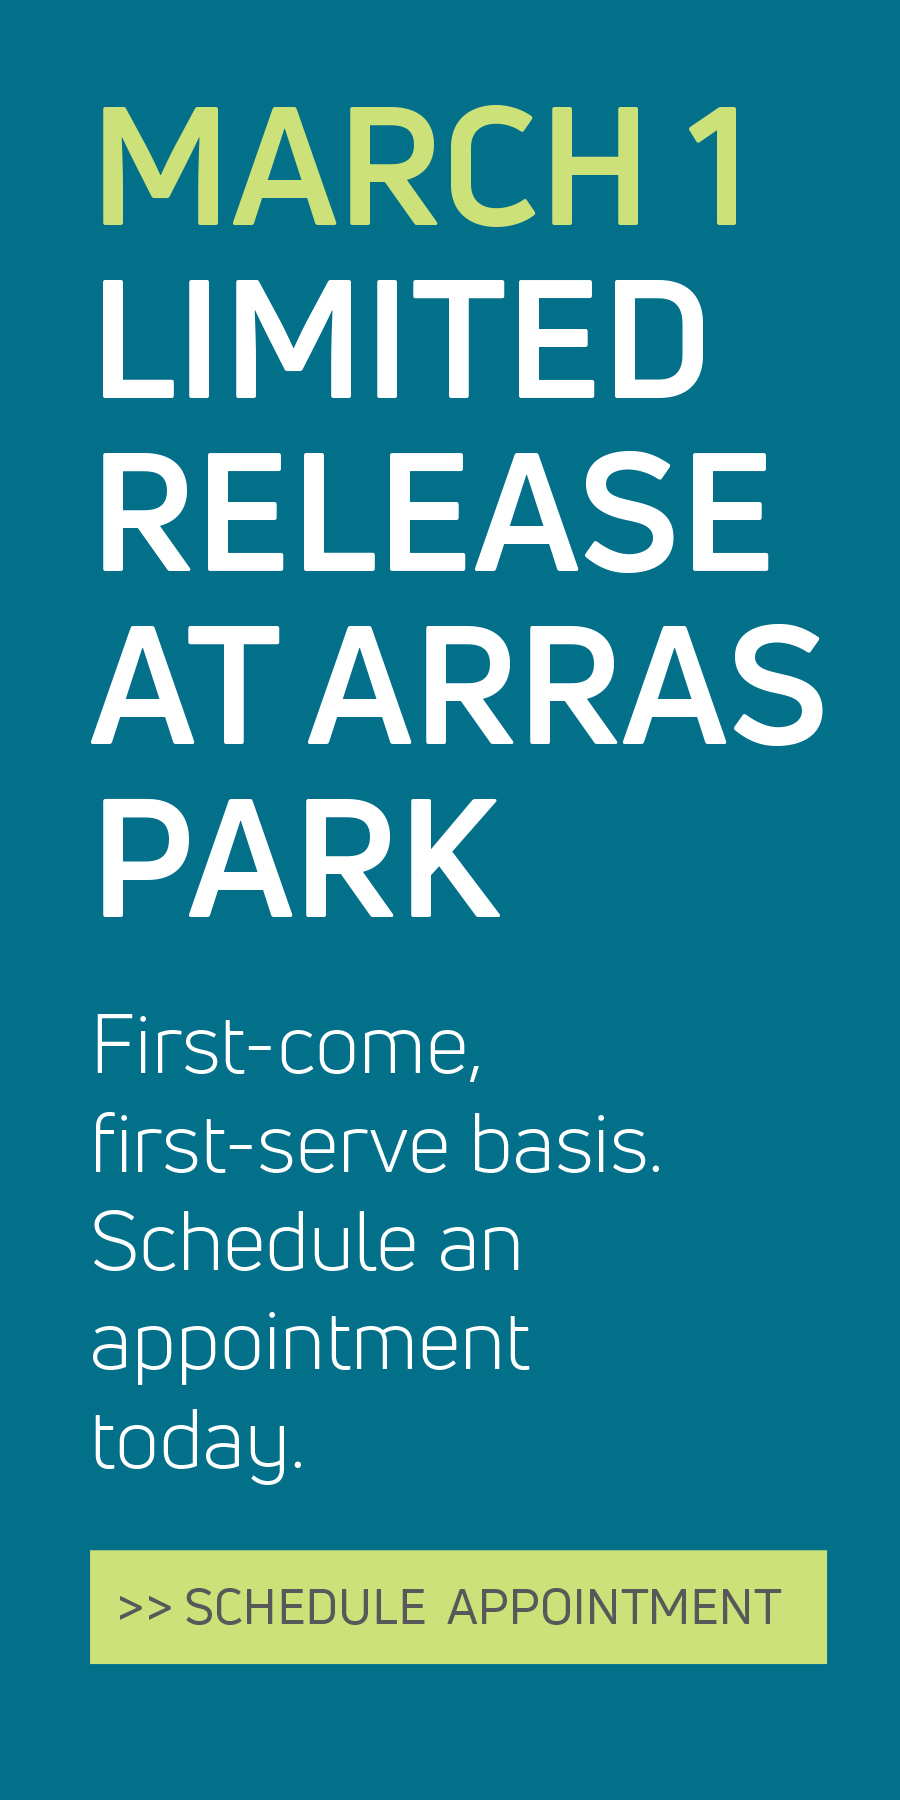
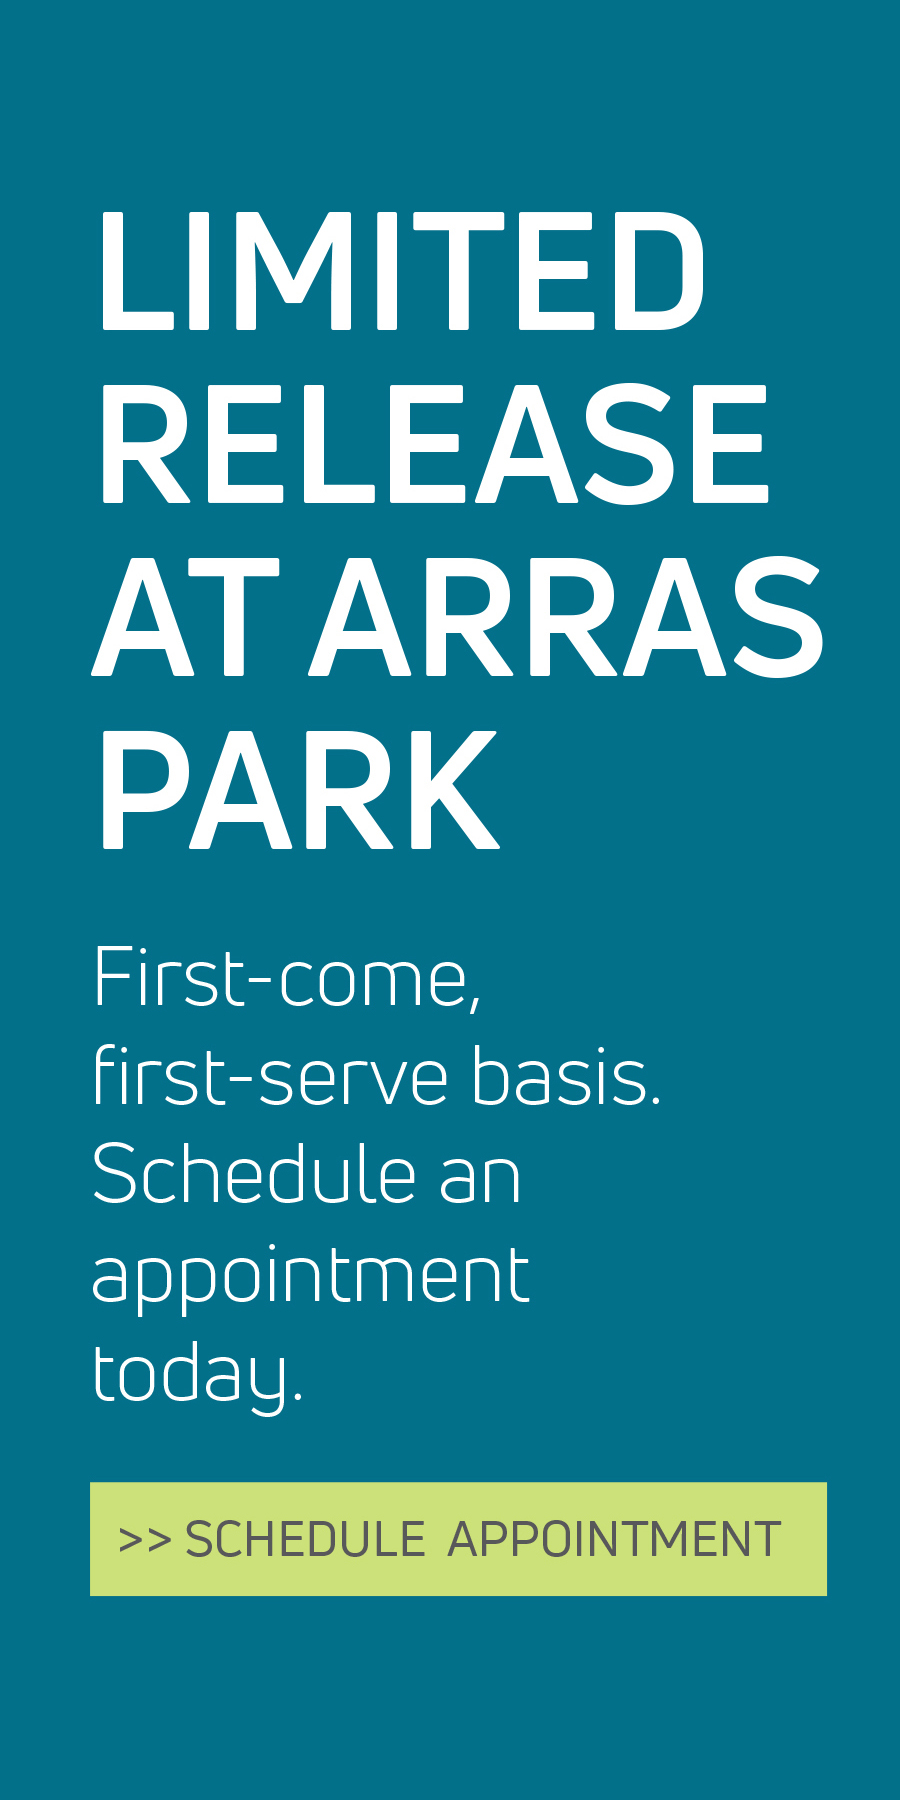
Updating button type on appointment callout and placing buttons back on page.

Changed region(s): [[0.0933, 0.0311, 0.9333, 0.9333], [0.7467, 0.0622, 0.84, 0.1244]]

diff --git a/wp-content/themes/mcstain-2019.1/cultivation/cultivation-intro.php b/wp-content/themes/mcstain-2019.1/cultivation/cultivation-intro.php
@@ -6,28 +6,28 @@
         <div class="community-details">
           <?php the_content() ?>
 
-          <?php /* if(is_page('arras-park')): ?>
+          <?php if(is_page('arras-park')): ?>
             <button class="appt-btn lightbox-trigger base-contact">
               <img src="<?php bloginfo('stylesheet_directory') ?>/assets/images/schedule_mobile.jpg" alt="Schedule Appointment Button" class="img-fluid aligncenter" />
             </button>
-          <?php else: */ ?>
+          <?php else: ?>
           <a href="/bewell-house-by-mcstain/" title="BeWell House, exclusively by McStain Neighborhoods" class="sidebar-btn">
             <img src="<?php bloginfo('template_directory') ?>/assets/images/bewell-btn-mobile.jpg" alt="BeWell House, exclusively by McStain Neighborhoods" class="img-fluid aligncenter" />
           </a>
-          <?php //endif; ?>
+          <?php endif; ?>
         </div>
       </div>
       <div class="col-md-3 col-lg-3">
         <div class="right-btn nomobile">
-        <?php /* if(is_page('arras-park')): ?>
+        <?php if(is_page('arras-park')): ?>
           <button class="appt-btn lightbox-trigger base-contact">
             <img src="<?php bloginfo('stylesheet_directory') ?>/assets/images/appointment-callout.jpg" alt="Schedule Appointment Button" class="img-fluid alignright" />
           </button>
-        <?php else: */ ?>
+        <?php else: ?>
           <a href="/bewell-house-by-mcstain/" title="BeWell House, exclusively by McStain Neighborhoods">
             <img src="<?php bloginfo('stylesheet_directory') ?>/assets/images/bewell-callout.jpg" alt="BeWell House, exclusively by McStain Neighborhoods" class="img-fluid alignright" />
           </a>
-        <?php //endif; ?>
+        <?php endif; ?>
         </div>
       </div>
     </div>
